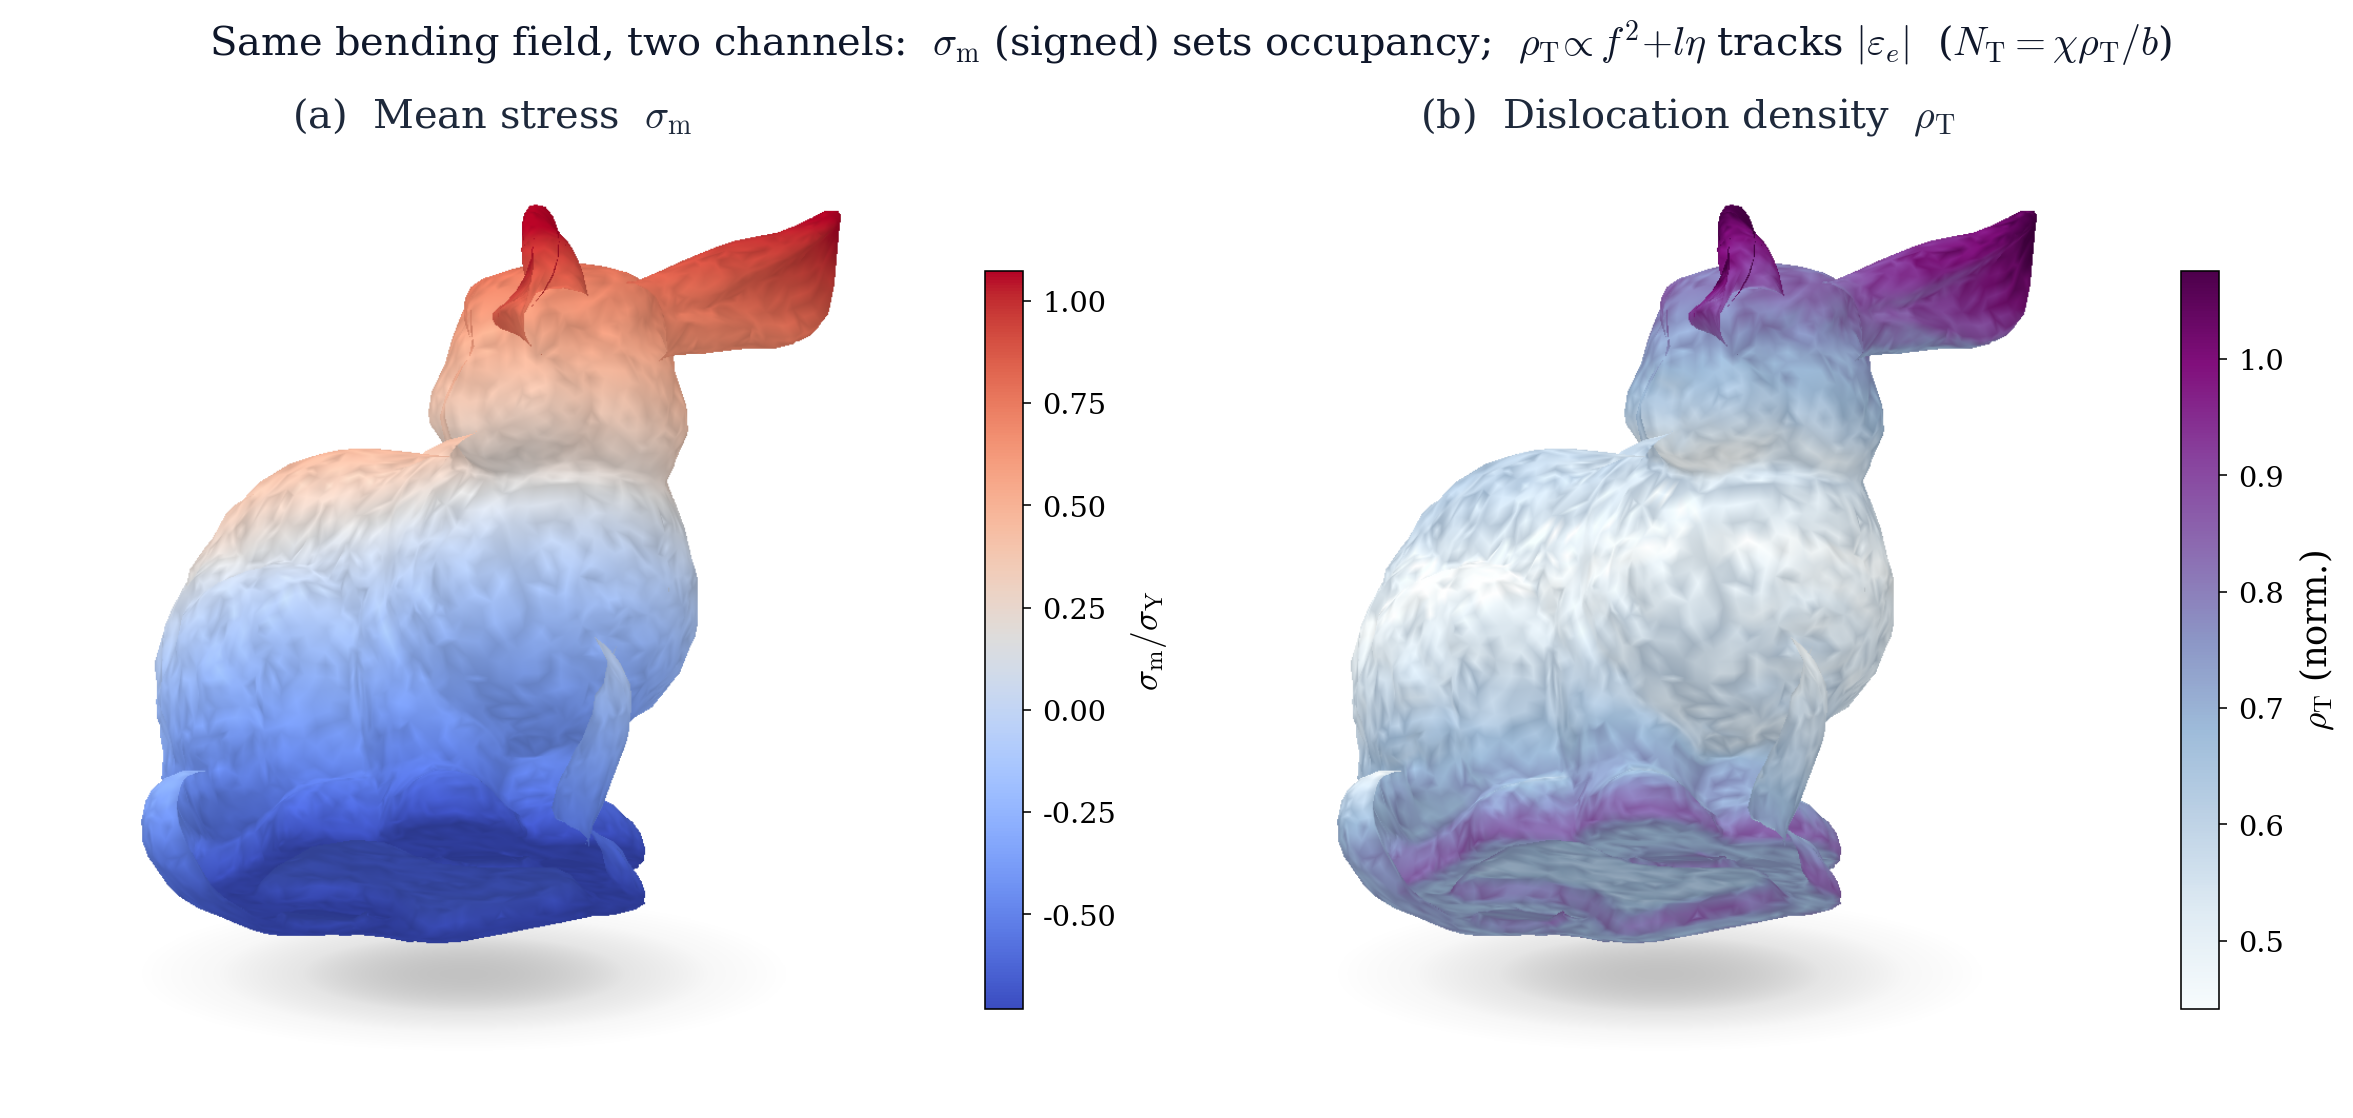
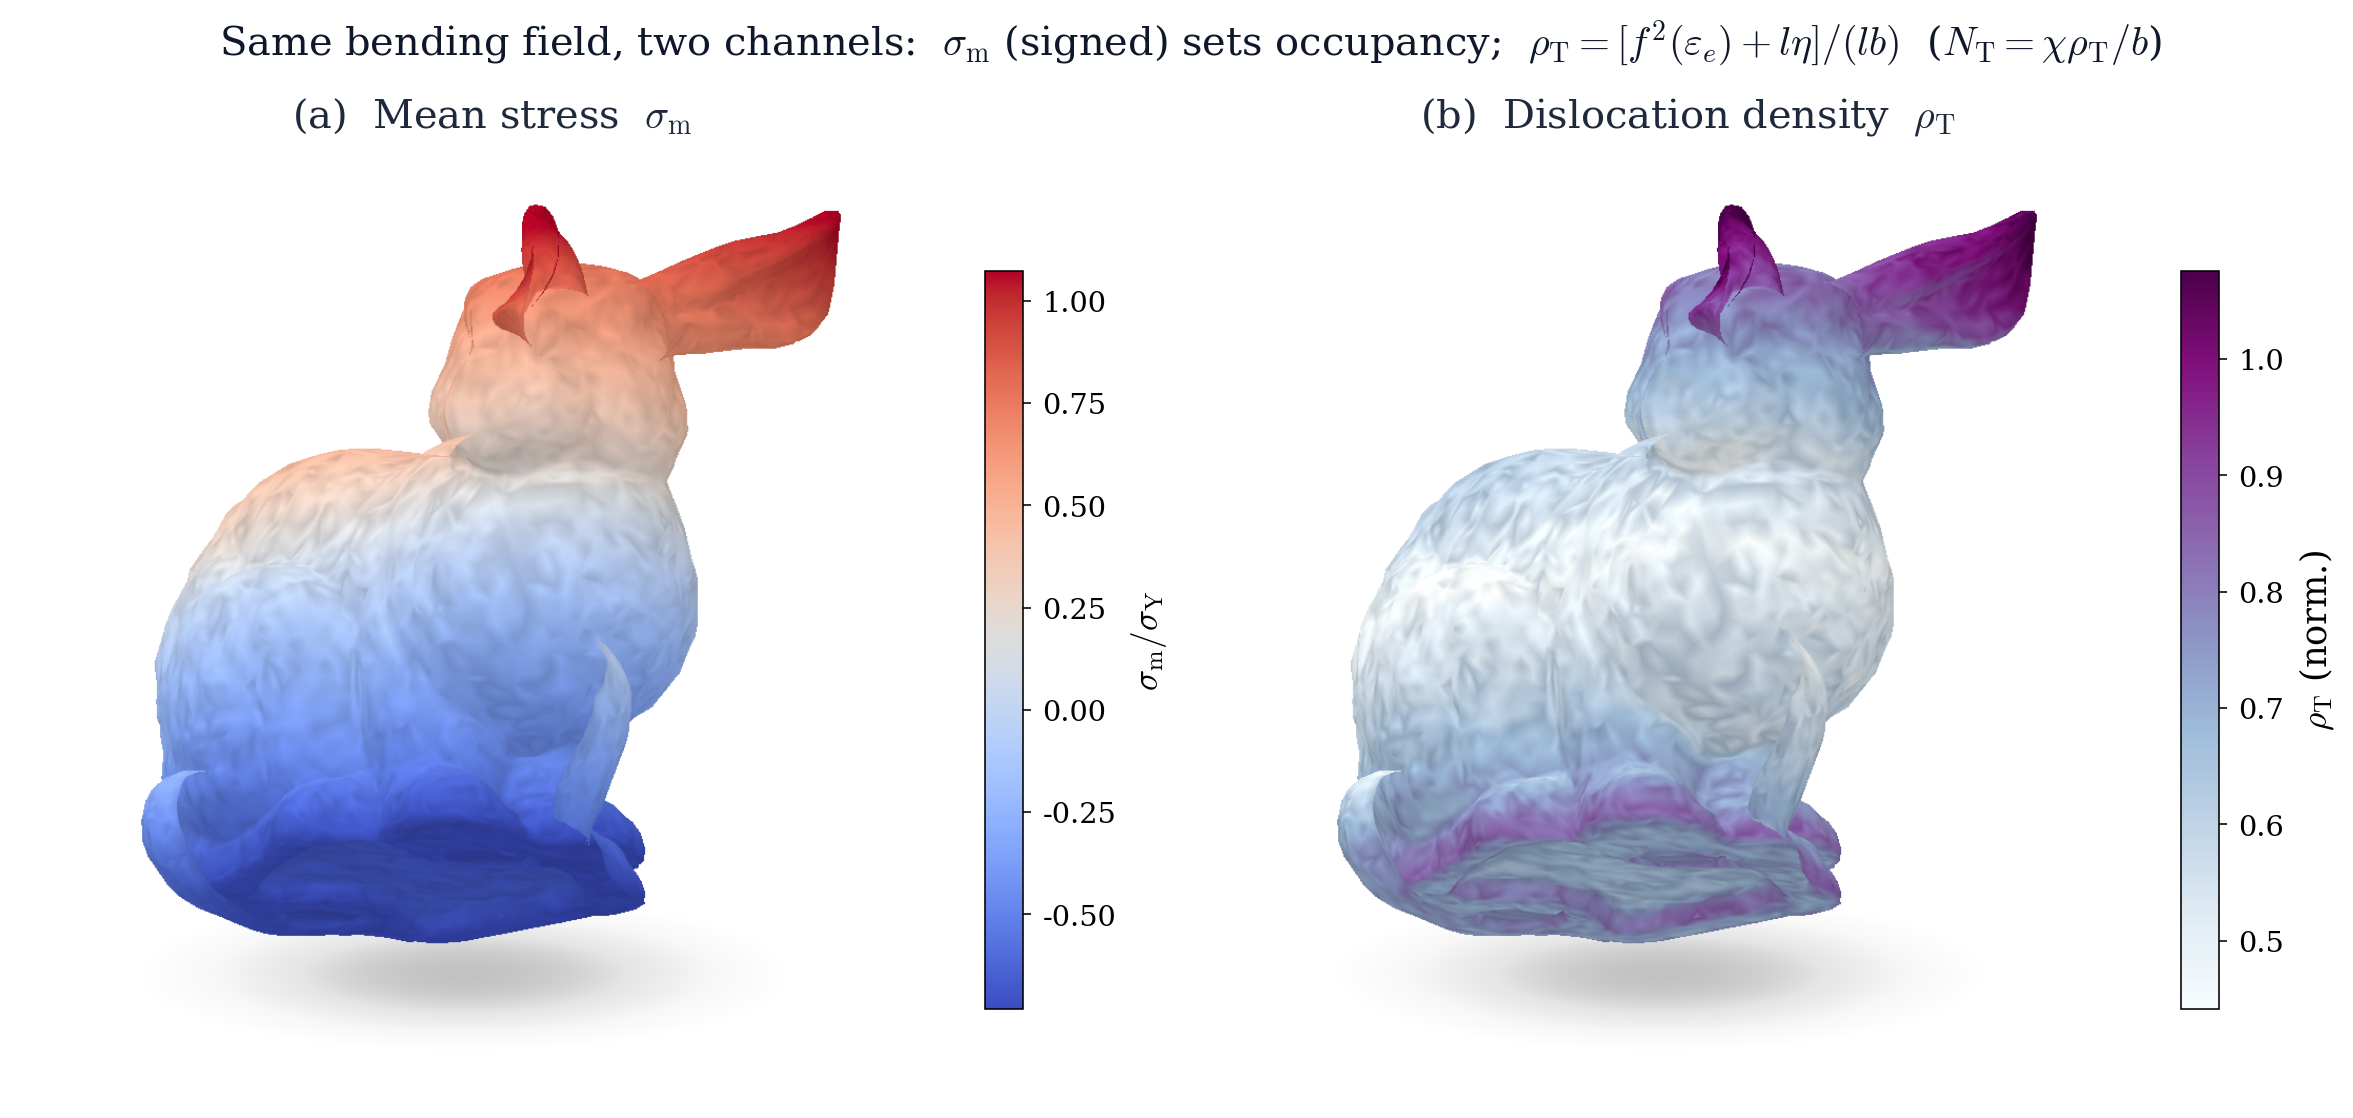
Fix GitHub math commas and caption rho_T formula in README.

Changed region(s): [[0.0931, 0.0, 0.9307, 0.0608]]

diff --git a/README.md b/README.md
@@ -20,7 +20,8 @@ Illustrative proxies of the two Fig.&nbsp;1 channels on one bending field
 mapped to the Stanford bunny:<br/>
 (a)&nbsp;signed mean stress&nbsp;$\sigma_{\mathrm{m}}$
 (sets lattice / trap occupancy through Oriani);<br/>
-(b)&nbsp;dislocation density&nbsp;$\rho_{\mathrm{T}}\propto f^{2}(\varepsilon_e)+l\eta$
+(b)&nbsp;dislocation density
+$\rho_{\mathrm{T}}=[f^{2}(\varepsilon_e)+l\eta]/(lb)$
 from the same bend (outer fibers), which sets
 $N_{\mathrm{T}}=\chi\rho_{\mathrm{T}}/b$.
 </em>
@@ -33,31 +34,27 @@ necessary dislocations through an intrinsic material length $l$. Matching the
 Taylor model to the uniaxial hardening law gives
 
 $$
-\sigma_e = \sigma_Y \sqrt{f^{2}(\varepsilon_e) + l\,\eta} \,,
-\qquad
-l = 3\alpha^{2}\left(\frac{\mu}{\sigma_Y}\right)^{2} b \,.
+\sigma_e = \sigma_Y \sqrt{f^{2}(\varepsilon_e) + l\eta},\qquad
+l = 3\alpha^{2}\left(\frac{\mu}{\sigma_Y}\right)^{2} b.
 $$
 
 Because $l$ is built from the same constants that enter the Taylor stress, the
 hydrogen-free dislocation density and trap-site density collapse to
 
 $$
-\rho_{\mathrm{T}} = \frac{f^{2}(\varepsilon_e) + l\,\eta}{l\,b} \,,
-\qquad
+\rho_{\mathrm{T}} = \frac{f^{2}(\varepsilon_e) + l\eta}{lb},\qquad
 N_{\mathrm{T}} = \frac{\chi\rho_{\mathrm{T}}}{b}
-= \frac{\chi}{l\,b^{2}}\bigl(f^{2}(\varepsilon_e) + l\,\eta\bigr) \,.
+= \frac{\chi}{lb^{2}}\bigl(f^{2}(\varepsilon_e) + l\eta\bigr).
 $$
 
 Under Oriani equilibrium, lattice and trapped occupancies respond to mean stress,
 
 $$
 \theta_L = \theta_L^{0}
-\exp\!\left(\frac{\sigma_{\mathrm{m}} V_H}{R T}\right) \,,
-\qquad
+\exp\left(\frac{\sigma_{\mathrm{m}} V_H}{RT}\right),\qquad
 \frac{\theta_T}{1-\theta_T}
-= K_T \frac{\theta_L}{1-\theta_L} \,,
-\qquad
-K_T = \exp\!\left(\frac{W_B}{R T}\right) \,.
+= K_T \frac{\theta_L}{1-\theta_L},\qquad
+K_T = \exp\left(\frac{W_B}{RT}\right).
 $$
 
 The analytical chapters map this closure onto thin-wire torsion, ultra-thin
@@ -65,7 +62,7 @@ bending, and spherical void growth (size-dependent trap uptake). A finite-strain
 cavitation analysis adds HELP softening
 
 $$
-\sigma_e^{\mathrm{HELP}} = (1 - \xi\,\theta_T)\,\sigma_e^{(0)} \,.
+\sigma_e^{\mathrm{HELP}} = (1 - \xi\theta_T)\sigma_e^{(0)}.
 $$
 
 The FEM panels reuse the same constitutive ideas on meshes.
